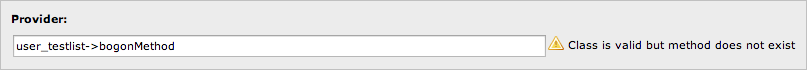
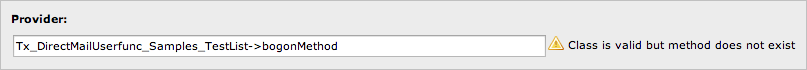
[TASK][!!!] #53299: Remove "user_" prefix
git-svn-id: https://svn.typo3.org/TYPO3v4/Extensions/direct_mail_userfunc/trunk@81180 735d13b6-9817-0410-8766-e36946ffe9aa

Changed region(s): [[0.0, 0.6, 0.4337, 0.7429]]

diff --git a/ext_tables.php b/ext_tables.php
@@ -59,19 +59,19 @@ if (TYPO3_MODE === 'BE') {
 	$extConf = unserialize($GLOBALS['TYPO3_CONF_VARS']['EXT']['extConf']['direct_mail_userfunc']);
 	if ($extConf['enableSamples']) {
 		$GLOBALS['TYPO3_CONF_VARS']['EXTCONF']['direct_mail_userfunc']['userFunc'][] = array(
-			'class'  => 'user_testList',
+			'class'  => 'Tx_DirectMailUserfunc_Samples_TestList',
 			'method' => 'myRecipientList',
 			'label'  => 'LLL:EXT:direct_mail_userfunc/Resources/Private/Language/locallang.xml:userfunction.myRecipientList'
 		);
 
 		$GLOBALS['TYPO3_CONF_VARS']['EXTCONF']['direct_mail_userfunc']['userFunc'][] = array(
-			'class'  => 'user_testList_extjs',
+			'class'  => 'Tx_DirectMailUserfunc_Samples_TestListExtjs',
 			'method' => 'myRecipientList',
 			'label'  => 'LLL:EXT:direct_mail_userfunc/Resources/Private/Language/locallang.xml:userfunction.myRecipientListExtJS'
 		);
 
 		$GLOBALS['TYPO3_CONF_VARS']['EXTCONF']['direct_mail_userfunc']['userFunc'][] = array(
-			'class'  => 'user_testList_tca',
+			'class'  => 'Tx_DirectMailUserfunc_Samples_TestListTca',
 			'method' => 'myRecipientList',
 			'label'  => 'LLL:EXT:direct_mail_userfunc/Resources/Private/Language/locallang.xml:userfunction.myRecipientListTca'
 		);

diff --git a/Classes/Samples/TestListExtjs.php b/Classes/Samples/TestListExtjs.php
@@ -8,7 +8,7 @@
  * @author      Xavier Perseguers <xavier@causal.ch>
  * @license     http://www.gnu.org/licenses/lgpl.html GNU Lesser General Public License, version 3 or later
  */
-class user_testList_extjs {
+class Tx_DirectMailUserfunc_Samples_TestListExtjs {
 
 	/**
 	 * Returns a list of recipients.
@@ -47,7 +47,7 @@ class user_testList_extjs {
 		$js = '';
 
 		if ($methodName === 'myRecipientList') {
-			$js = '<script type="text/javascript" src="' . t3lib_extMgm::extRelPath('direct_mail_userfunc') . 'Samples/parameters.js' . '"></script>';
+			$js = '<script type="text/javascript" src="' . t3lib_extMgm::extRelPath('direct_mail_userfunc') . 'Classes/Samples/parameters.js' . '"></script>';
 			$js .= '<script type="text/javascript"><!--
 				var dmuf_parameters = document.' . $PA['formName'] . '[\'' . $PA['itemName'] . '\'];
 				function updateParameters(params) {

diff --git a/ext_localconf.php b/ext_localconf.php
@@ -14,17 +14,4 @@ $GLOBALS['TYPO3_CONF_VARS']['SYS']['Objects']['tx_directmail_recipient_list'] = 
 	'className' => 'ux_tx_directmail_recipient_list',
 );
 
-// Include wizard class
-//include_once(t3lib_extMgm::extPath($_EXTKEY) . 'controller/class.tx_directmailuserfunc_wizard.php');
-
-// Include sample user functions if needed
-if (TYPO3_MODE === 'BE') {
-	$extConf = unserialize($GLOBALS['TYPO3_CONF_VARS']['EXT']['extConf'][$_EXTKEY]);
-	if ($extConf['enableSamples']) {
-		include_once(t3lib_extMgm::extPath($_EXTKEY) . 'Samples/user_testlist.php');
-		include_once(t3lib_extMgm::extPath($_EXTKEY) . 'Samples/user_testlist_extjs.php');
-		include_once(t3lib_extMgm::extPath($_EXTKEY) . 'Samples/user_testlist_tca.php');
-	}
-}
-
 ?>

diff --git a/ext_autoload.php b/ext_autoload.php
@@ -4,5 +4,8 @@ $extensionClassesPath = $extensionPath . 'Classes/';
 return array(
 	// Compatibility with TYPO3 4.5
 	'tx_directmailuserfunc_controller_wizard' => $extensionClassesPath . 'Controller/Wizard.php',
+	'tx_directmailuserfunc_samples_testlist' => $extensionClassesPath . 'Samples/TestList.php',
+	'tx_directmailuserfunc_samples_testlistextjs' => $extensionClassesPath . 'Samples/TestListExtjs.php',
+	'tx_directmailuserfunc_samples_testlisttca' => $extensionClassesPath . 'Samples/TestListTca.php',
 	'tx_directmailuserfunc_tca_parameters' => $extensionClassesPath . 'Tca/Parameters.php',
 );

diff --git a/Classes/Samples/TestListTca.php b/Classes/Samples/TestListTca.php
@@ -8,7 +8,7 @@
  * @author      Xavier Perseguers <xavier@causal.ch>
  * @license     http://www.gnu.org/licenses/lgpl.html GNU Lesser General Public License, version 3 or later
  */
-class user_testList_tca {
+class Tx_DirectMailUserfunc_Samples_TestListTca {
 
 	/**
 	 * Returns a list of recipients.

diff --git a/Classes/Samples/TestList.php b/Classes/Samples/TestList.php
@@ -8,7 +8,7 @@
  * @author      Xavier Perseguers <xavier@causal.ch>
  * @license     http://www.gnu.org/licenses/lgpl.html GNU Lesser General Public License, version 3 or later
  */
-class user_testList {
+class Tx_DirectMailUserfunc_Samples_TestList {
 
 	/**
 	 * Returns a list of recipients.

diff --git a/Documentation/DeveloperManual/SampleUserFunctions/Index.rst b/Documentation/DeveloperManual/SampleUserFunctions/Index.rst
@@ -17,14 +17,14 @@ click on extension External Providers for Direct Mail, tick the corresponding ch
 .. figure:: ../../Images/enable_samples.png
 	:alt: Enable samples
 
-Once activated, you may use :php:`user_testList->myRecipientList` as provider. This provider has a simple user
-parameter wizard using standard JavaScript.
+Once activated, you may use :php:`Tx_DirectMailUserfunc_Samples_TestList->myRecipientList` as provider. This provider
+has a simple user parameter wizard using standard JavaScript.
 
-Another provider :php:`user_testList_extjs->myRecipientList` is available. This is basically the same provider
-as the previous one except that the user parameter wizard is using ExtJS framework.
+Another provider :php:`Tx_DirectMailUserfunc_Samples_TestListExtjs->myRecipientList` is available. This is basically the
+same provider as the previous one except that the user parameter wizard is using ExtJS framework.
 
-Finally, provider :php:`user_testList_tca->myRecipientList` shows how you may create enhanced wizard with a TCA
-definition instead of a JavaScript-based wizard.
+Finally, provider :php:`Tx_DirectMailUserfunc_Samples_TestListTca->myRecipientList` shows how you may create enhanced
+wizard with a TCA definition instead of a JavaScript-based wizard.
 
 .. figure:: ../../Images/tca.png
 	:alt: TCA-based wizard

diff --git a/Documentation/DeveloperManual/Index.rst b/Documentation/DeveloperManual/Index.rst
@@ -43,14 +43,9 @@ this is easily done with:
 	$params['lists']['fe_users'][] = 14;
 
 .. note::
-	Your class should be properly loaded. This is typically done with an include statement in :file:`typo3conf/localconf.php`
-	or with an extension and the corresponding include statement in :file:`ext_localconf.php`.
-
-.. note::
-	You class should be prefixed with ``user_`` in order to prevent TYPO3 from issuing a warning. If you create an
-	extension for your user functions, we suggest using naming ``user_Tx_YourExt_Controller_SomeClass`` with file
-	:file:`SomeClass.php` stored in :file:`yourExt/Classes/Controller/SomeClass.php` in order to respect as much as
-	possible Extbase naming convention.
+	Your class should be properly loaded. If you are using TYPO3 >= 4.6 and you stick to Extbase naming conventions, the
+	TYPO3 autoloader will automatically take care of loading it when needed. If using TYPO3 4.5, you should add a
+	reference into :file:`EXT:yourext/ext_autoload.php`.
 
 
 .. toctree::

diff --git a/Documentation/Introduction/Index.rst b/Documentation/Introduction/Index.rst
@@ -38,8 +38,8 @@ Screenshots
 .. figure:: ../Images/userfunc_overview.png
 	:alt: Overview of the configuration of a dynamic list of recipients
 
-#. Icon |valid| confirms that the provider definition is valid (class ``user_testlist`` was found and method
-   "myRecipientList" exists).
+#. Icon |valid| confirms that the provider definition is valid (class ``Tx_DirectMailUserfunc_Samples_TestList`` was
+   found and method "myRecipientList" exists).
 
 #. Icon |wizard| informs you that a wizard is available to configure the additional parameters. Simply click on it to
    invoke a user-generated script.

diff --git a/Documentation/DeveloperManual/AdditionalParameters/Wizard.rst b/Documentation/DeveloperManual/AdditionalParameters/Wizard.rst
@@ -81,7 +81,7 @@ number of recipients you want to get in your recipient list:
 .. figure:: ../../Images/alert_basic.png
 	:alt: Standard alert box
 
-As TYPO3 comes with the ExtJS framework, you may show a prettier dialog (code is provided in Samples):
+As TYPO3 comes with the ExtJS framework, you may show a prettier dialog (code is provided in :file:`Classes/Samples`):
 
 .. figure:: ../../Images/alert_extjs.png
 	:alt: Alert box based on ExtJS
